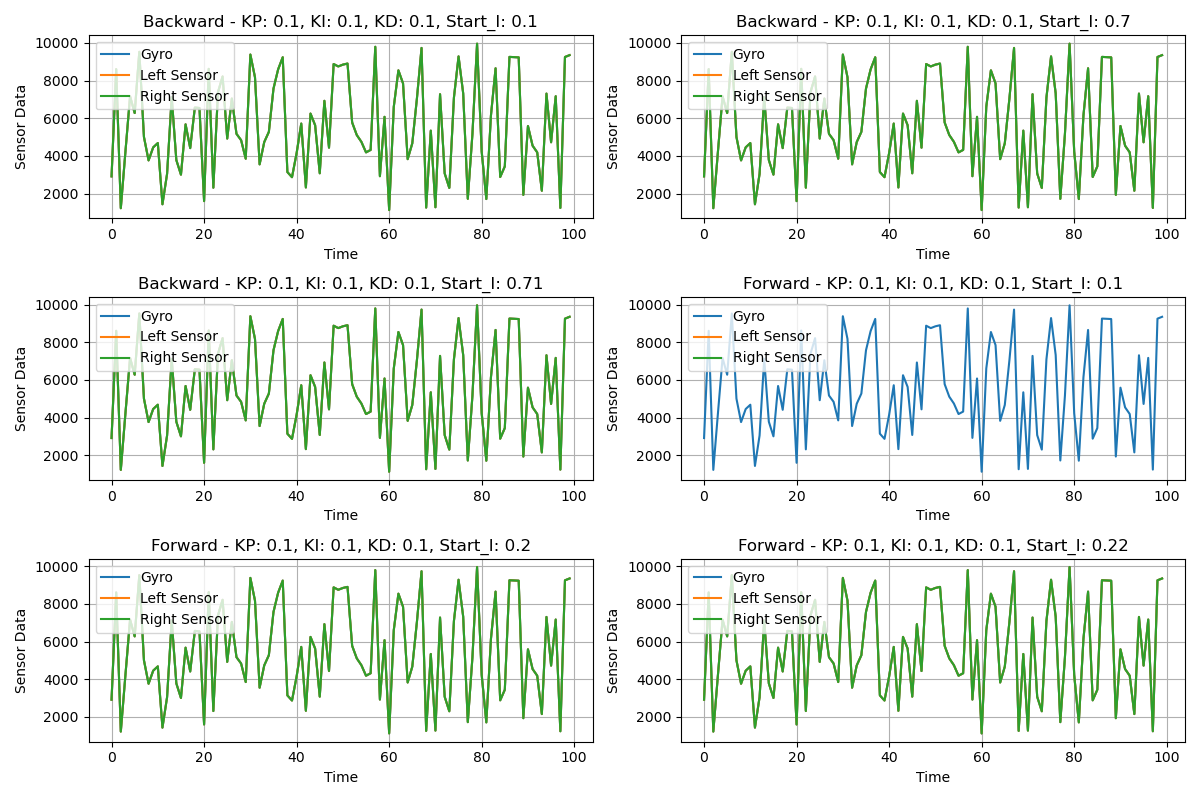
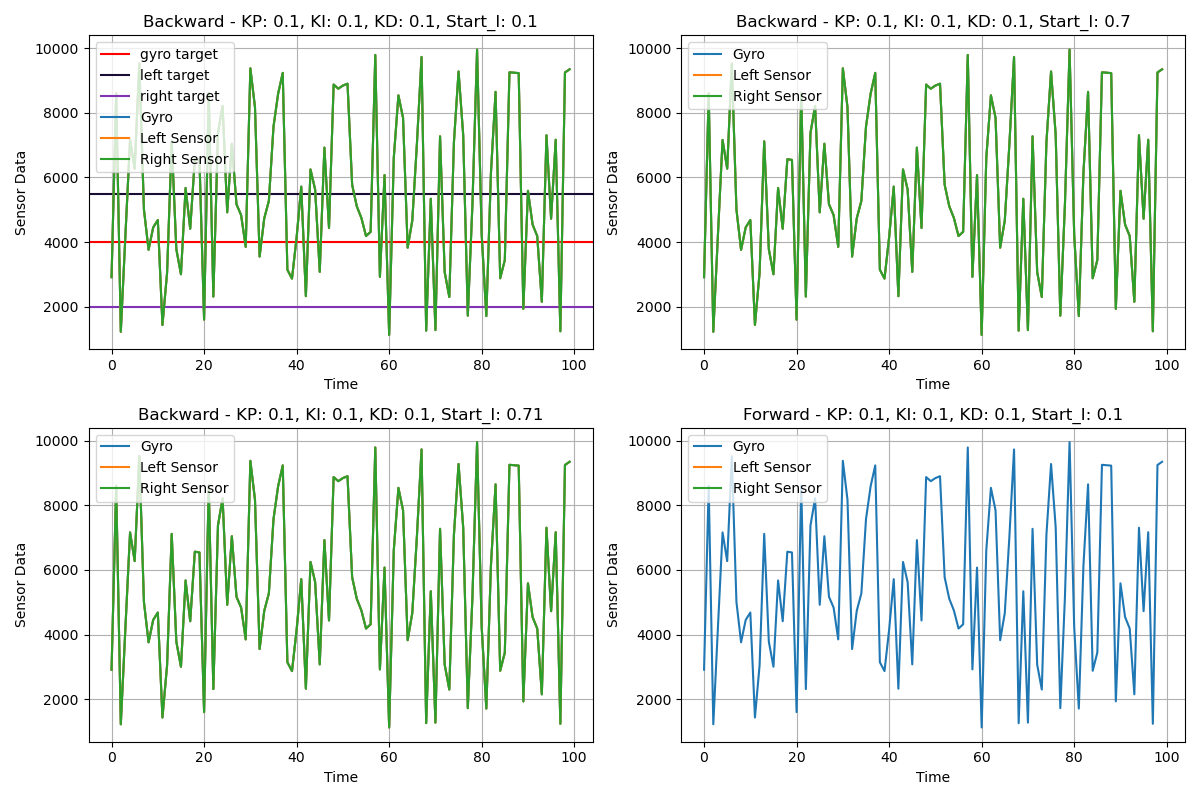
完成脚本（获得真实数据来测试）

Changed region(s): [[0.0, 0.0625, 0.9867, 0.9062], [0.5242, 0.0312, 0.555, 0.0625], [0.0308, 0.0312, 0.0617, 0.0625]]

diff --git a/script/draw_curve.py b/script/draw_curve.py
@@ -9,7 +9,9 @@ def read_data_from_file(file_path):
     gyro_data = []
     left_sensor_data = []
     right_sensor_data = []
-    
+    gyro_target=[]
+    left_sensor_target=[]
+    right_sensor_target=[]
     with open(file_path, 'r') as file:
         section = None
         for line in file:
@@ -19,6 +21,12 @@ def read_data_from_file(file_path):
                 section = 'left_sensor'
             elif line.startswith('right_sensor:'):
                 section = 'right_sensor'
+            elif line.startswith('gyro_target:'):
+                section = 'gyro_target'
+            elif line.startswith('left_sensor_target:'):
+                section = 'left_sensor_target'
+            elif line.startswith('right_sensor_target:'):
+                section = 'right_sensor_target'
             elif section:
                 data = line.strip().split(',')
                 if section == 'gyro':
@@ -27,10 +35,22 @@ def read_data_from_file(file_path):
                     left_sensor_data = [float(x) for x in data if x]
                 elif section == 'right_sensor':
                     right_sensor_data = [float(x) for x in data if x]
-    return gyro_data, left_sensor_data, right_sensor_data
+                elif section == 'gyro_target':
+                    gyro_target = [float(x) for x in data if x]
+                elif section == 'left_sensor_target':
+                    left_sensor_target = [float(x) for x in data if x]
+                elif section == 'right_sensor_target':
+                    right_sensor_target = [float(x) for x in data if x]
+    return gyro_data, left_sensor_data, right_sensor_data,gyro_target,left_sensor_target,right_sensor_target
 
-def plot_sensor_data(ax, mode, gyro_data, left_sensor_data, right_sensor_data, title):
+def plot_sensor_data(ax, mode, gyro_data, left_sensor_data, right_sensor_data,gyro_target,left_target,right_target, title):
     # 在给定的ax（子图）上绘制曲线
+    if gyro_target:
+        ax.axhline(y=gyro_target,color='r',label='gyro target')
+    if left_target:
+        ax.axhline(y=left_target,color=(0.1,0.05,0.2),label='left target')
+    if(right_target):
+        ax.axhline(y=right_target,color=(0.5,0.2,0.7),label='right target')
     ax.plot(gyro_data, label='Gyro')
     ax.plot(left_sensor_data, label='Left Sensor')
     ax.plot(right_sensor_data, label='Right Sensor')
@@ -41,6 +61,7 @@ def plot_sensor_data(ax, mode, gyro_data, left_sensor_data, right_sensor_data, t
     ax.grid()
 
 def generate_and_save_plot_image(subplots_data, output_file):
+
     num_subplots = len(subplots_data)
     num_cols = 2
     num_rows = math.ceil(num_subplots / num_cols)
@@ -48,11 +69,11 @@ def generate_and_save_plot_image(subplots_data, output_file):
     fig = plt.figure(figsize=(12, 8))
     gs = gridspec.GridSpec(num_rows, num_cols)
 
-    for idx, (mode, gyro_data, left_sensor_data, right_sensor_data, title) in enumerate(subplots_data):
+    for idx, (mode, gyro_data, left_sensor_data, right_sensor_data,gyro_target,left_target,right_target, title) in enumerate(subplots_data):
         row = idx // num_cols
         col = idx % num_cols
         ax = fig.add_subplot(gs[row, col])
-        plot_sensor_data(ax, mode, gyro_data, left_sensor_data, right_sensor_data, title)
+        plot_sensor_data(ax, mode, gyro_data, left_sensor_data, right_sensor_data,gyro_target,left_target,right_target, title)
 
     plt.tight_layout()
     plt.savefig(output_file)
@@ -64,7 +85,7 @@ if __name__ == '__main__':
     file_pattern = re.compile(r'(forward|backward|turn|swing|turn_gyro_free)_([\d\.]+)_([\d\.]+)_([\d\.]+)_([\d\.]+)\.txt')
 
     batch_size_cnt = 0
-    batch_size = 6  # 设置每批显示的子图数量
+    batch_size = 4  # 设置每批显示的子图数量
     subplots_data = []  # 用于存储每批子图的数据
 
     output_folder = './output_images/'
@@ -79,8 +100,8 @@ if __name__ == '__main__':
                 title = f'{mode.capitalize()} - KP: {kp}, KI: {ki}, KD: {kd}, Start_I: {start_i}'
                 print("Reading parameter: ",title)
                 file_path = os.path.join(root_path, file_name)
-                gyro_data, left_sensor_data, right_sensor_data = read_data_from_file(file_path)
-                subplots_data.append((mode, gyro_data, left_sensor_data, right_sensor_data, title))
+                gyro_data, left_sensor_data, right_sensor_data, gyro_target, left_target, right_target = read_data_from_file(file_path)
+                subplots_data.append((mode, gyro_data, left_sensor_data, right_sensor_data,gyro_target,left_target,right_target, title))
 
                 # 如果达到一批的子图数量，则生成图像文件并清空子图数据
                 if len(subplots_data) == batch_size:

diff --git a/src/EZ-Template/PID_Logger.cpp b/src/EZ-Template/PID_Logger.cpp
@@ -64,6 +64,10 @@ bool PIDLogger::save_data_to_file(const std::vector<double> &gyro_vec){
         std::cout<<"failed to open pid data file"<<std::endl;
         return false;
     }
+
+    file<<"gyro_target:"<<std::endl;
+    file<<target<<std::endl;
+
     file<<"gyro:"<<std::endl;
     for(const auto &i:gyro_vec){
         file<<i<<",";
@@ -83,6 +87,12 @@ bool PIDLogger::save_data_to_file(const std::vector<double> &left_sensor_vec,con
         std::cout<<"failed to open pid data file"<<std::endl;
         return false;
     }
+    file<<"left_sensor_target:"<<std::endl;
+    file<<left_sensor_target<<std::endl;
+    file<<"right_sensor_target:"<<std::endl;
+    file<<right_sensor_target<<std::endl;
+    file<<"gyro_target:"<<std::endl;
+    file<<gyro_vec.front()<<std::endl;
 
     file<<"gyro:"<<std::endl;
     for(const auto &i:gyro_vec){
